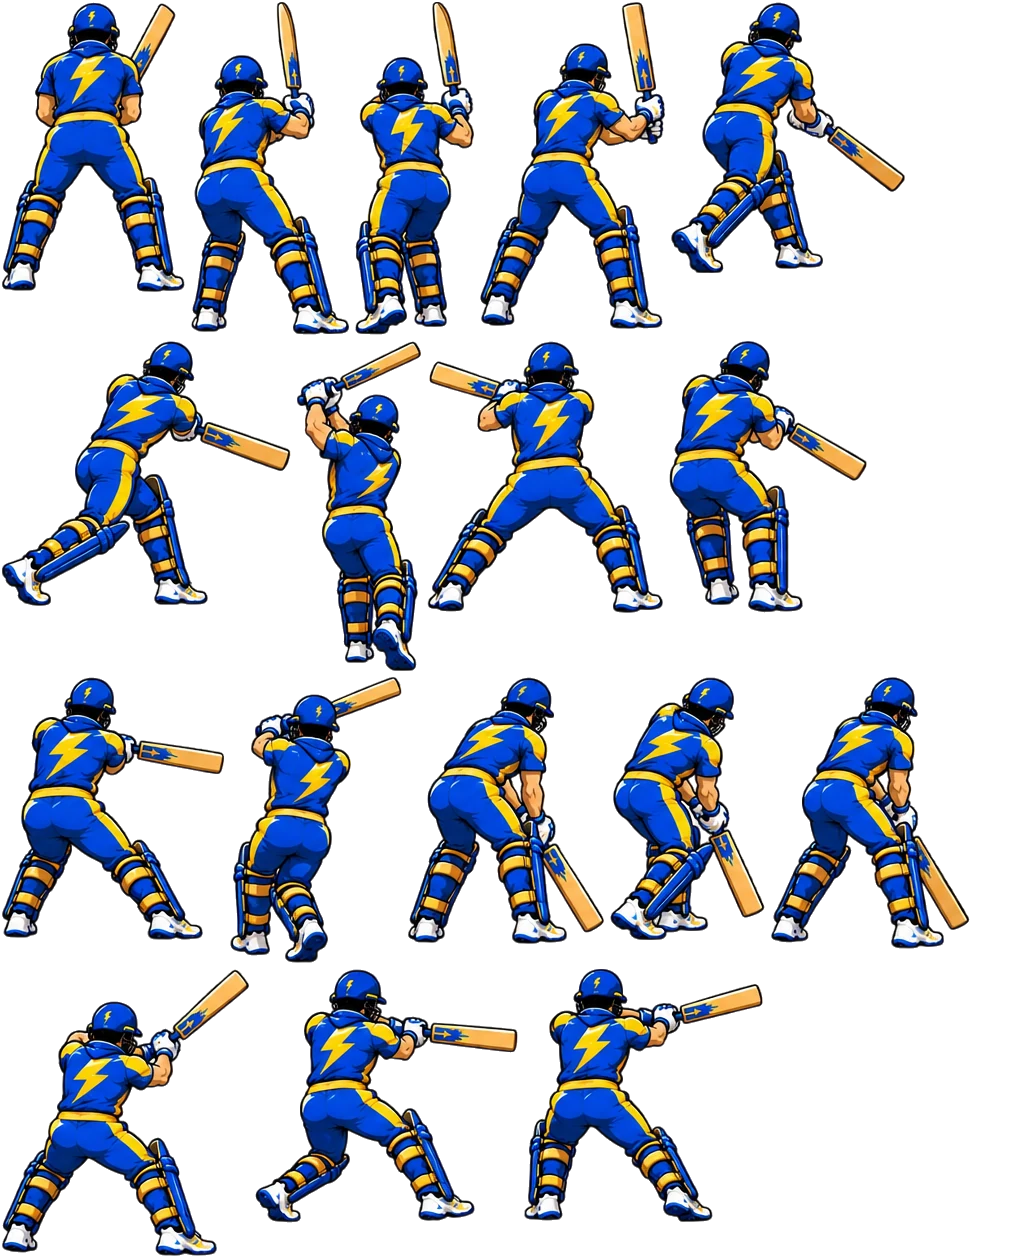
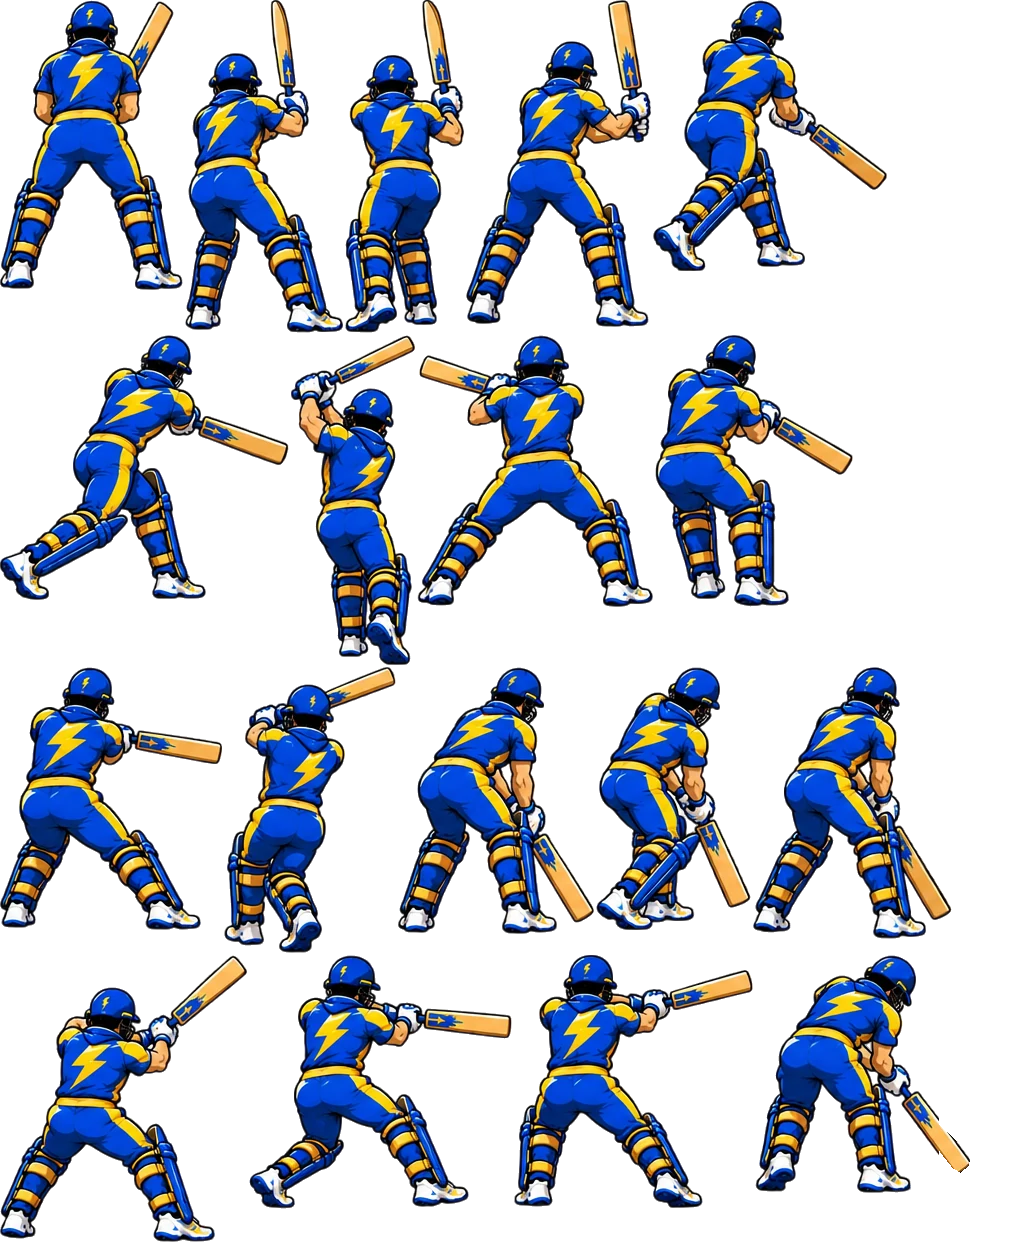
Batter sprite: bowled/beaten pose
Pose 18 with the drawn-in stumps erased (the game draws its own); shown after
a play-and-miss or when bowled.

Claude-Session: https://claude.ai/code/session_01NK7tbrKg5PdA6fuyEUPXLd

diff --git a/js/batsprite.js b/js/batsprite.js
@@ -7,23 +7,24 @@ const REF_HEIGHT_M = 1.72;   // that same stance in world metres (stumps reach m
 
 // name: [x, y, w, h, anchorX, anchorY (feet), scale]
 const FRAMES = {
-  ready: [0, 0, 187, 294, 93.2, 291, 1.0],
-  leave1: [189, 0, 162, 337, 66.0, 334, 1.053],
-  leave2: [353, 0, 123, 337, 48.2, 334, 1.08],
-  backlift: [478, 0, 189, 331, 100.8, 328, 1.026],
-  drive1: [669, 0, 238, 275, 96.8, 272, 1.053],
-  drive2: [0, 339, 293, 269, 140.2, 266, 1.0],
-  drive3: [295, 339, 128, 334, 83.8, 331, 1.08],
-  pull0: [425, 339, 240, 276, 122.0, 273, 1.0],
-  pull1: [667, 339, 202, 276, 83.2, 273, 1.026],
-  pull2: [0, 675, 226, 267, 97.0, 264, 1.0],
-  pull3: [228, 675, 176, 290, 68.2, 287, 1.08],
-  def1: [406, 675, 200, 271, 109.8, 268, 0.976],
-  def2: [608, 675, 159, 267, 76.8, 264, 0.93],
-  def3: [769, 675, 203, 276, 105.2, 273, 1.0],
-  cut1: [0, 967, 251, 291, 111.5, 288, 0.976],
-  cut2: [253, 967, 267, 258, 109.0, 255, 0.952],
-  cut3: [522, 967, 243, 257, 87.2, 254, 1.0],
+  ready: [0, 0, 183, 290, 91.2, 289, 1.0],
+  leave1: [185, 0, 158, 333, 64.0, 332, 1.053],
+  leave2: [345, 0, 119, 333, 46.2, 332, 1.08],
+  backlift: [466, 0, 185, 327, 98.8, 326, 1.026],
+  drive1: [653, 0, 234, 271, 94.8, 270, 1.053],
+  drive2: [0, 335, 289, 265, 138.2, 264, 1.0],
+  drive3: [291, 335, 124, 330, 81.8, 329, 1.08],
+  pull0: [417, 335, 236, 272, 120.0, 271, 1.0],
+  pull1: [655, 335, 198, 272, 81.2, 271, 1.026],
+  pull2: [0, 667, 222, 263, 95.0, 262, 1.0],
+  pull3: [224, 667, 172, 286, 66.2, 285, 1.08],
+  def1: [398, 667, 196, 267, 107.8, 266, 0.976],
+  def2: [596, 667, 155, 263, 74.8, 262, 0.93],
+  def3: [753, 667, 199, 272, 103.2, 271, 1.0],
+  cut1: [0, 955, 247, 287, 109.5, 286, 0.976],
+  cut2: [249, 955, 263, 254, 107.0, 253, 0.952],
+  cut3: [514, 955, 239, 253, 85.2, 252, 1.0],
+  bowled: [755, 955, 215, 238, 107.5, 237, 0.976],
 };
 
 // frame, ms on screen. The swing starts when the finger lifts, which is the moment of contact,
@@ -34,6 +35,7 @@ const SEQ = {
   cut: [['cut1', 45], ['cut2', 120], ['cut3', Infinity]],
   block: [['def1', 60], ['def2', 220], ['def3', Infinity]],
   leave: [['leave1', 170], ['leave2', Infinity]],
+  bowled: [['bowled', Infinity]], // beaten: looking back at the stumps
 };
 const BLEND_MS = 40;
 

diff --git a/js/game.js b/js/game.js
@@ -14,7 +14,7 @@ import { FX, INK } from './fx.js';
 import { Cam3D, OutfieldView, drawBackground, drawBoard, drawStumps, drawBall3D, drawFigure3D, POSES } from './scene.js';
 import { sfx, buzz, unlockAudio } from './audio.js';
 import { CutIn } from './cutin.js';
-import { loadBatSprites, drawBatSprite, shotAnim } from './batsprite.js';
+import { loadBatSprites, drawBatSprite, shotAnim, batFrame } from './batsprite.js';
 
 const F = CFG.fielding;
 class Cancel extends Error {}
@@ -579,6 +579,8 @@ export class Game {
       // let the ball carry on to the stumps or the keeper
       await this.until(() => this.gameTime - S.ballT0 >= (res.outcome === 'bowled' ? d.tStumps : d.tKeeper));
       S.delivery = null;
+      // beaten or bowled: he turns to look back at the stumps
+      if (res.outcome === 'bowled' || res.outcome === 'beaten') S.batter.shot = { anim: 'bowled', t0: this.realTime, from: batFrame(S.batter, this.realTime).f };
     }
 
     // ----- outcomes -----
